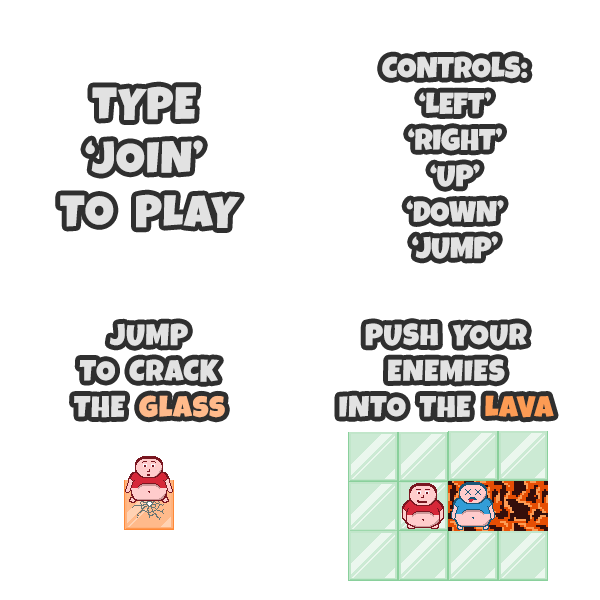
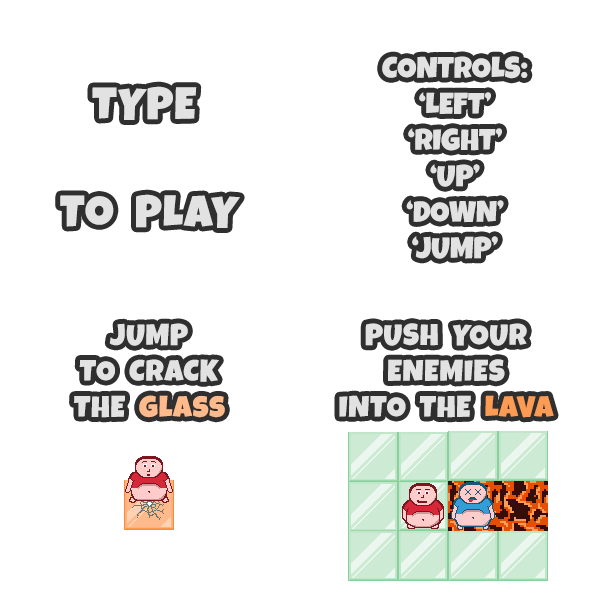
add animation to join screen

Changed region(s): [[0.12, 0.21, 0.36, 0.3]]

diff --git a/JoiningScreen.js b/JoiningScreen.js
@@ -1,3 +1,4 @@
+import Animation from './Animation.js';
 export default class JoiningScreen {
   constructor(game) {
     this.game = game;
@@ -12,6 +13,14 @@ export default class JoiningScreen {
     this.currentWaitingMessage = this.waitingMessage[0];
     this.ticker = 0;
     this.timer = 60;
+    this.sprite_sheet = {
+      frame_sets: [0, 1, 2, 3, 4, 5, 6, 7, 8, 9, 10, 11, 12, 13],
+      image: document.getElementById('joinStrip'),
+    };
+    this.animation = this.animation = new Animation(
+      this.sprite_sheet.frame_sets,
+      2
+    );
   }
 
   update(deltaTime) {
@@ -20,6 +29,7 @@ export default class JoiningScreen {
       this.callEverySecond();
       this.ticker = 0;
     }
+    this.animation.update(deltaTime);
   }
 
   callEverySecond() {
@@ -53,5 +63,17 @@ export default class JoiningScreen {
     ctx.textAlign = 'left';
 
     ctx.fillText(this.currentWaitingMessage, 450, 45);
+
+    ctx.drawImage(
+      this.sprite_sheet.image,
+      this.animation.frame * 150,
+      0,
+      150,
+      150,
+      367,
+      175,
+      150,
+      150
+    );
   }
 }

diff --git a/index.html b/index.html
@@ -23,6 +23,7 @@
     <img id="lavaBackground" src="images/lavaBackground.png" style="display:none"/>
     <img id="joiningBackground" src="images/joinscreen.png" style="display:none"/>
     <img id="winScreenBackGround" src="images/winscreenBackground.png" style="display:none"/>
+    <img id="joinStrip" src="images/joinStrip.png" style="display:none"/>
 
     <audio id="victorySound" src="./sounds/victory.wav"></audio>
     <audio id="jumpSound" src="./sounds/jump.wav"></audio>
